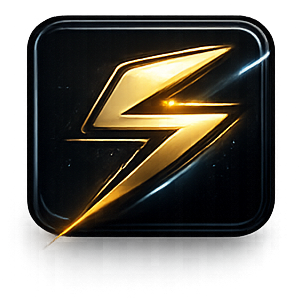
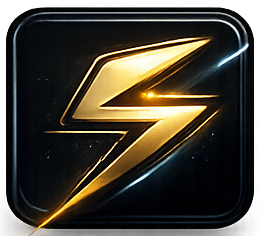
Updated login-card branding

diff --git a/apps/admin-web/src/App.css b/apps/admin-web/src/App.css
@@ -1561,10 +1561,10 @@
 .sky-login-card-header {
   position: relative;
   display: flex;
-  align-items: center;
+  align-items: flex-start;
   justify-content: space-between;
-  gap: 1.25rem;
-  padding: 1.35rem 1.45rem 1.25rem;
+  gap: 1.15rem;
+  padding: 1.32rem 1.45rem 1.22rem;
 }
 
 .sky-login-card-header::after {
@@ -1581,17 +1581,22 @@
 .sky-login-brand-intro {
   display: flex;
   min-width: 0;
-  align-items: center;
-  gap: 1rem;
+  align-items: flex-start;
+  gap: 1.05rem;
 }
 
 .sky-login-brand-copy {
+  display: flex;
   min-width: 0;
+  flex-direction: column;
+  justify-content: flex-start;
+  padding-top: 0.02rem;
 }
 
 .sky-login-card-mark {
-  width: 4rem;
-  height: 4rem;
+  width: 5.65rem;
+  height: 5.65rem;
+  flex: 0 0 5.65rem;
   border-color: rgba(236, 190, 74, 0.64);
   border-radius: 1.12rem;
   background:
@@ -1613,26 +1618,34 @@
   border-color: rgba(255, 229, 154, 0.14);
 }
 
-.sky-login-card-header .sky-page-kicker {
-  margin-bottom: 0.2rem;
-  color: #d6b85f;
-}
-
 .sky-login-card-header .sky-page-title {
-  font-size: clamp(1.45rem, 1.9vw, 1.8rem);
+  margin: 0;
+  font-size: clamp(1.58rem, 2vw, 1.95rem);
+  line-height: 1.02;
   letter-spacing: -0.045em;
 }
 
-.sky-login-card-header .sky-page-subtitle {
-  max-width: 28rem;
+.sky-login-brand-tagline {
   margin-top: 0.32rem;
+  color: #d6b85f;
+  font-size: 0.78rem;
+  font-weight: 850;
+  letter-spacing: 0.14em;
+  line-height: 1.15;
+  text-transform: uppercase;
+}
+
+.sky-login-card-header .sky-page-subtitle {
+  max-width: 24rem;
+  margin-top: 0.54rem;
   color: #c1d1ee;
-  font-size: 0.94rem;
-  line-height: 1.5;
+  font-size: 0.92rem;
+  line-height: 1.45;
 }
 
 .sky-login-card-signal {
   display: inline-flex;
+  align-self: flex-start;
   align-items: center;
   gap: 0.45rem;
   min-width: max-content;
@@ -3510,11 +3523,22 @@
 
   .sky-login-brand-intro {
     align-items: flex-start;
+    gap: 0.85rem;
   }
 
   .sky-login-card-mark {
-    width: 3.55rem;
-    height: 3.55rem;
+    width: 4.45rem;
+    height: 4.45rem;
+    flex-basis: 4.45rem;
+  }
+
+  .sky-login-card-header .sky-page-title {
+    font-size: 1.55rem;
+  }
+
+  .sky-login-brand-tagline {
+    font-size: 0.68rem;
+    letter-spacing: 0.12em;
   }
 
   .sky-login-card-signal {

diff --git a/apps/admin-web/src/components/ui/brandThemeSelfTest.js b/apps/admin-web/src/components/ui/brandThemeSelfTest.js
@@ -10,10 +10,12 @@ function assert(condition, message) {
 const cssPath = path.join(__dirname, '..', '..', 'App.css');
 const chartThemePath = path.join(__dirname, '..', 'charts', 'chartTheme.js');
 const dashboardVisualsPath = path.join(__dirname, '..', 'charts', 'DashboardVisuals.jsx');
+const loginPath = path.join(__dirname, '..', '..', 'pages', 'Login.jsx');
 
 const cssSource = fs.readFileSync(cssPath, 'utf8');
 const chartThemeSource = fs.readFileSync(chartThemePath, 'utf8');
 const dashboardVisualsSource = fs.readFileSync(dashboardVisualsPath, 'utf8');
+const loginSource = fs.readFileSync(loginPath, 'utf8');
 
 assert(
   cssSource.includes('SkyCommand Midnight Gold brand system') &&
@@ -39,6 +41,18 @@ assert(
   cssSource.includes('.sky-workflow-approval-instructions') &&
     cssSource.includes('border-color: rgba(220, 177, 63, 0.3);'),
   'Human approval surfaces must carry the restrained gold importance treatment.',
+);
+assert(
+  loginSource.includes('<h1 className="h3 sky-page-title">SkyCommand</h1>') &&
+    loginSource.includes('<div className="sky-login-brand-tagline">Workflow Automation</div>') &&
+    !loginSource.includes('Workflow Automation Engine'),
+  'The login card must use the product-first SkyCommand / Workflow Automation brand hierarchy.',
+);
+assert(
+  cssSource.includes('width: 5.65rem;') &&
+    cssSource.includes('flex: 0 0 5.65rem;') &&
+    cssSource.includes('.sky-login-brand-tagline'),
+  'The login-card mark must anchor the full branded header with the dedicated tagline treatment.',
 );
 assert(
   chartThemeSource.includes("cyan: '#77ddff'") &&

diff --git a/apps/admin-web/src/pages/Login.jsx b/apps/admin-web/src/pages/Login.jsx
@@ -68,8 +68,8 @@ function Login() {
           <div className="sky-login-brand-intro">
             <SkyCommandMark className="sky-login-card-mark" />
             <div className="sky-login-brand-copy">
-              <div className="sky-page-kicker">Workflow Automation Engine</div>
               <h1 className="h3 sky-page-title">SkyCommand</h1>
+              <div className="sky-login-brand-tagline">Workflow Automation</div>
               <p className="sky-page-subtitle">
                 Secure operator access to workflows, tools, and runtime intelligence.
               </p>
